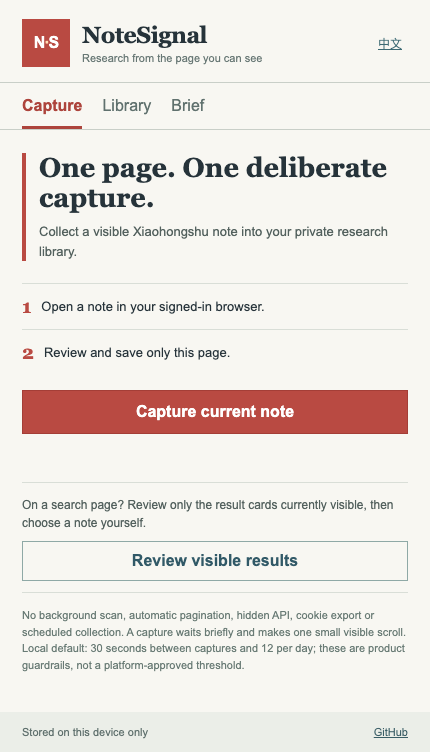
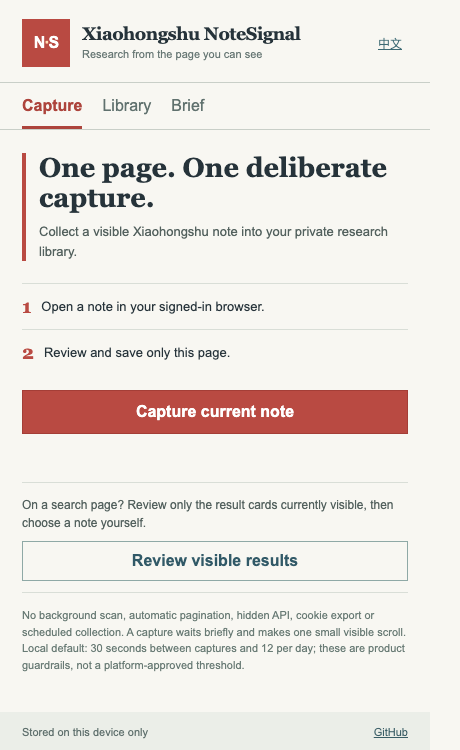
Put Xiaohongshu first in bilingual product identity

diff --git a/src/style.css b/src/style.css
@@ -2,3 +2,4 @@
 *{box-sizing:border-box}body{width:430px;margin:0}button,input,textarea{font:inherit}button{cursor:pointer}button:focus-visible,input:focus-visible,textarea:focus-visible,a:focus-visible{outline:3px solid #477887;outline-offset:2px}main{min-height:530px}.mast{display:flex;align-items:center;padding:19px 22px 15px;border-bottom:1px solid #c9cfc8}.mark{width:48px;height:48px;display:flex;align-items:center;justify-content:center;flex:none;white-space:nowrap;background:#b94a42;color:white;font-weight:800;letter-spacing:-1px;font-size:16px}.mark span{color:#ffdbb4}.identity{padding-left:12px;display:flex;flex-direction:column;gap:4px}.identity strong{font-family:Georgia,serif;font-size:23px;letter-spacing:-.5px}.identity small{color:#687875;font-size:11px}.text-button{margin-left:auto;border:0;background:none;color:#3c6973;text-decoration:underline;font-size:12px}nav{display:flex;border-bottom:1px solid #c9cfc8;padding:0 22px;gap:20px}nav button{border:0;background:none;padding:14px 0 11px;color:#60716e;border-bottom:3px solid transparent}nav button.active{color:#ad443c;border-color:#ad443c;font-weight:bold}.panel{padding:23px 22px 28px}.hero{position:relative;padding-left:17px;margin-bottom:22px}.rule{position:absolute;left:0;top:0;bottom:0;width:4px;background:#b94a42}h1{font-family:Georgia,"Songti SC",serif;font-size:27px;line-height:1.12;margin:0 0 9px}.hero p,#brief-intro{line-height:1.5;color:#53615e;margin:0;font-size:13px}.step{display:flex;align-items:center;gap:10px;border-top:1px solid #d9ded7;padding:12px 0;font-size:13px}.step b{font-family:Georgia,serif;color:#b94a42;font-size:19px}.primary{background:#b94a42;color:white;border:1px solid #a43e37;padding:12px 16px;font-weight:bold;width:100%;margin-top:15px}.primary:hover{background:#a43e37}#status{font-size:12px;line-height:1.4;color:#a43e37;min-height:18px}.fine{border-top:1px solid #d9ded7;padding-top:14px;color:#697b75;line-height:1.5;font-size:11px}label{display:block;margin:12px 0;font-size:12px;font-weight:bold}label span{display:block;margin-bottom:5px}input,textarea{width:100%;border:1px solid #b6c1bc;background:#fff;padding:9px;color:#26333a}textarea{resize:vertical}.panel-heading{display:flex;align-items:baseline;justify-content:space-between;border-bottom:2px solid #26333a;padding-bottom:7px;margin-bottom:15px}.panel-heading h1{font-size:23px;margin:0}#count{color:#697b75;font-size:12px}.note{border-bottom:1px solid #d9ded7;padding:13px 0}.note a{color:#26333a;font-weight:bold;text-decoration-thickness:1px}.note .meta{display:block;color:#697b75;margin-top:5px;font-size:11px}.note p{font-size:12px;line-height:1.4;white-space:pre-wrap;max-height:70px;overflow:hidden}.note button{border:0;background:none;color:#b94a42;padding:0;text-decoration:underline;font-size:11px}.actions{display:flex;gap:8px;margin-top:20px}.actions button{flex:1;border:1px solid #b6c1bc;background:#fff;padding:10px;color:#39585d;font-size:12px}#brief-content{white-space:pre-wrap;border-left:3px solid #477887;margin:22px 0;padding-left:14px;font-size:12px;line-height:1.6}footer{display:flex;justify-content:space-between;padding:14px 22px;background:#ebeee8;color:#60716e;font-size:11px}footer a{color:#395d65}@media (max-width:440px){body{width:100vw}}
 .search-tool{border-top:1px solid #d9ded7;margin-top:18px;padding-top:14px}.search-tool p{color:#53615e;font-size:12px;line-height:1.45;margin:0 0 9px}.secondary{width:100%;border:1px solid #8fa9a6;background:#f8f7f2;color:#315967;padding:10px 12px;font-weight:bold}.secondary:hover{background:#edf1eb}.result{display:flex;gap:12px;justify-content:space-between;align-items:baseline;border-bottom:1px solid #d9ded7;padding:9px 0;font-size:12px}.result a{color:#26333a;line-height:1.3}.result span{flex:none;color:#8b6662;font-size:11px}
 button:disabled{opacity:.62;cursor:wait}
+.identity{min-width:0}.identity strong{font-size:18px;line-height:1.12}.identity small{line-height:1.25}.mast .text-button{flex:none}

diff --git a/src/popup.js b/src/popup.js
@@ -1,6 +1,6 @@
 const STRINGS = {
   en: {
-    subtitle:'Research from the page you can see',capture:'Capture',library:'Library',brief:'Brief',
+    brandName:'Xiaohongshu NoteSignal',subtitle:'Research from the page you can see',capture:'Capture',library:'Library',brief:'Brief',
     hero:'One page. One deliberate capture.',desc:'Collect a visible Xiaohongshu note into your private research library.',
     open:'Open a note in your signed-in browser.',doCapture:'Review and save only this page.',
     captureButton:'Capture current note',title:'Title',author:'Author',excerpt:'Visible excerpt',metrics:'Visible metrics (check on page)',insight:'Why does this work? Add your own observation.',save:'Save to library',
@@ -14,7 +14,7 @@ const STRINGS = {
     briefHead:'Topic signals from saved notes',briefItem:'Source',briefAngle:'Your observation',briefEnd:'Next: compare audience, hook, proof, and your original angle. Do not copy source text into a post.'
   },
   zh: {
-    subtitle:'从你看得到的页面做研究',capture:'采集',library:'资料库',brief:'选题简报',
+    brandName:'小红书笔记风向标',subtitle:'从你看得到的页面做研究',capture:'采集',library:'资料库',brief:'选题简报',
     hero:'一页一次，主动采集。',desc:'把当前可见的小红书笔记存进本地研究资料库。',
     open:'先在已登录浏览器打开一篇笔记。',doCapture:'核对当前页，再决定是否保存。',
     captureButton:'采集当前笔记',title:'标题',author:'作者',excerpt:'可见内容摘录',metrics:'页面可见指标（请核对）',insight:'它为什么有效？写下你的判断。',save:'保存到资料库',
@@ -34,7 +34,7 @@ const t=(key,vars={})=>Object.entries(vars).reduce((s,[k,v])=>s.replace('{'+k+'}
 async function readState(){const data=await chrome.storage.local.get(['lang','notes','history','halted']);lang=data.lang||'en';notes=data.notes||[];history=data.history||[];halted=!!data.halted;render();}
 function render(){
   document.documentElement.lang=lang; $('lang').textContent=lang==='en'?'中文':'English';
-  const ids={subtitle:'subtitle','tab-capture':'capture','tab-library':'library','tab-brief':'brief','hero-title':'hero','hero-desc':'desc','step-open':'open','step-capture':'doCapture','capture-button':'captureButton','resume-button':'resume','label-title':'title','label-author':'author','label-excerpt':'excerpt','label-metrics':'metrics','label-insight':'insight','save-button':'save','search-intro':'searchIntro','search-button':'searchButton','safety-note':'safety','library-title':'libraryTitle','brief-title':'briefTitle','brief-intro':'briefIntro','copy-brief':'copy','export-csv':'exportCsv','export-json':'exportJson','import-json':'importJson','footer-text':'footer'};
+  const ids={'brand-name':'brandName',subtitle:'subtitle','tab-capture':'capture','tab-library':'library','tab-brief':'brief','hero-title':'hero','hero-desc':'desc','step-open':'open','step-capture':'doCapture','capture-button':'captureButton','resume-button':'resume','label-title':'title','label-author':'author','label-excerpt':'excerpt','label-metrics':'metrics','label-insight':'insight','save-button':'save','search-intro':'searchIntro','search-button':'searchButton','safety-note':'safety','library-title':'libraryTitle','brief-title':'briefTitle','brief-intro':'briefIntro','copy-brief':'copy','export-csv':'exportCsv','export-json':'exportJson','import-json':'importJson','footer-text':'footer'};
   for(const [id,key] of Object.entries(ids)) $(id).textContent=t(key);
   $('resume-button').hidden=!halted;
   if(halted)showStatus('halted');

diff --git a/src/popup.html b/src/popup.html
@@ -2,12 +2,12 @@
 <html lang="en">
 <head>
   <meta charset="utf-8"><meta name="viewport" content="width=device-width,initial-scale=1">
-  <title>NoteSignal</title>
+  <title>小红书笔记风向标 · NoteSignal</title>
   <link rel="stylesheet" href="style.css">
 </head>
 <body>
   <main>
-    <header class="mast"><div class="mark">N<span>·</span>S</div><div class="identity"><strong>NoteSignal</strong><small id="subtitle"></small></div><button id="lang" class="text-button" aria-label="Switch language">中文</button></header>
+    <header class="mast"><div class="mark">N<span>·</span>S</div><div class="identity"><strong id="brand-name"></strong><small id="subtitle"></small></div><button id="lang" class="text-button" aria-label="Switch language">中文</button></header>
     <nav aria-label="Sections"><button data-tab="capture" class="active" id="tab-capture"></button><button data-tab="library" id="tab-library"></button><button data-tab="brief" id="tab-brief"></button></nav>
     <section id="capture" class="panel">
       <div class="hero"><span class="rule"></span><h1 id="hero-title"></h1><p id="hero-desc"></p></div>

diff --git a/README.zh-CN.md b/README.zh-CN.md
@@ -1,8 +1,8 @@
-# 笔记风向标 NoteSignal
+# 小红书笔记风向标 · NoteSignal
 
 一款本地运行的小红书选题研究插件。它把「看见一篇笔记 → 主动采集 → 核对内容 → 写下自己的判断 → 汇总选题」做成短流程。
 
-![笔记风向标实际插件界面，空资料库状态](docs/screenshots/popup-empty.png)
+![小红书笔记风向标实际中文插件界面，空资料库状态](docs/screenshots/popup-empty-zh.png)
 
 截图是插件真实界面的空资料库状态，不代表已完成小红书实测采集。
 

diff --git a/README.md b/README.md
@@ -1,4 +1,4 @@
-# NoteSignal · 笔记风向标
+# Xiaohongshu NoteSignal · 小红书笔记风向标
 
 **A deliberate Xiaohongshu research notebook, one visible page at a time.**
 
